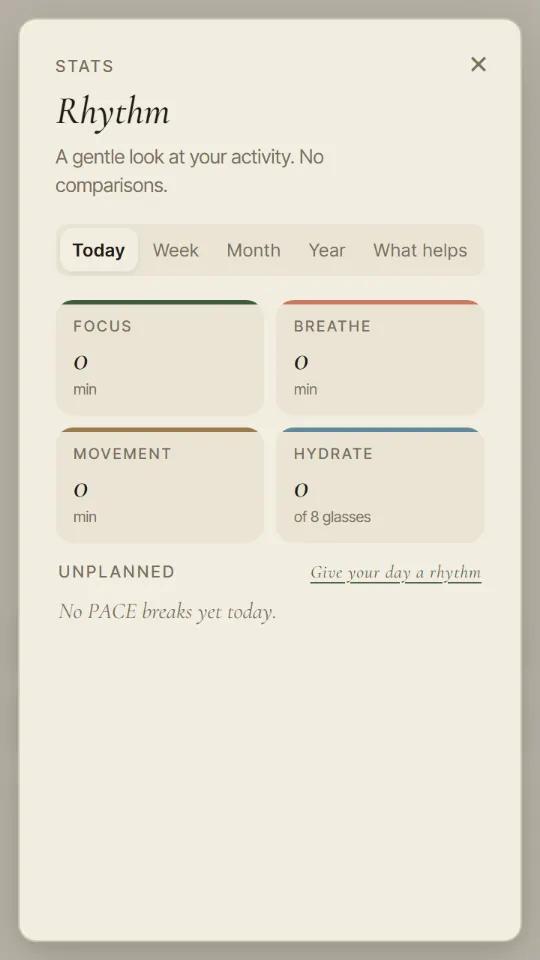
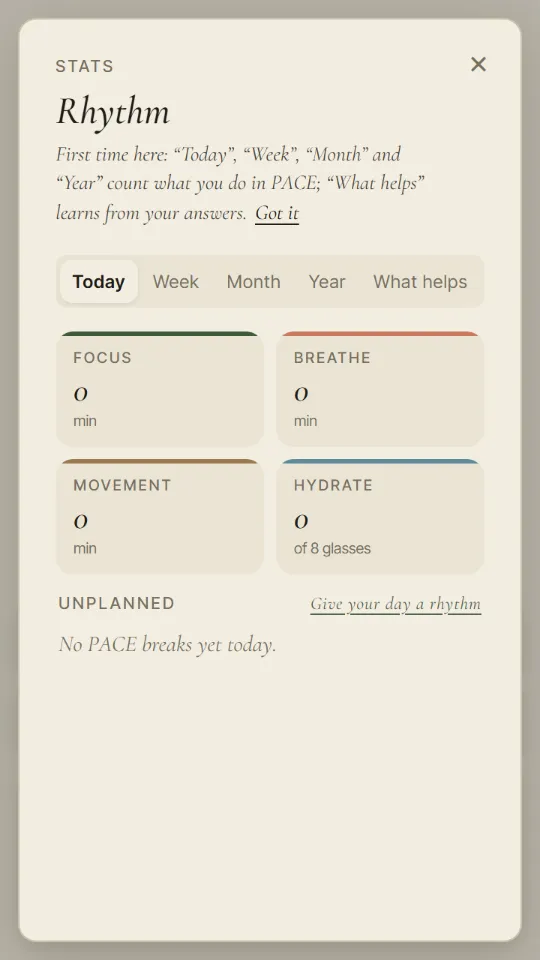
wip(visita-guiada): la B en inglés sí cabe en Estadísticas
El «no cabe» no era de espacio: el guion buscaba la frase inglesa por «Gentle» y la de la app es «A gentle look at your activity…». Con eso, las cuatro líneas de la B caben a 360 y 1280 en los dos idiomas; fotos y medidas rehechas solo para la B en inglés.

Changed region(s): [[0.0889, 0.1562, 0.7704, 0.6875], [0.5333, 0.25, 0.8889, 0.6562]]

diff --git a/docs/proposals/visita-guiada-19nov/pinta.js b/docs/proposals/visita-guiada-19nov/pinta.js
@@ -127,7 +127,7 @@ function pintarLineaB([sitio, lang]) {
   const vis1 = (s) => [...document.querySelectorAll(s)].find((x) => x.getBoundingClientRect().width > 0);
   const hoja = (raiz, re) => [...raiz.querySelectorAll('p, div, span, h2, h3')].find((x) => x.children.length === 0 && re.test(x.textContent.trim()) && x.getBoundingClientRect().width > 0);
   let destino = null;
-  if (sitio === 'stats') destino = hoja(document, /^(Métricas suaves|Gentle|Soft)/);
+  if (sitio === 'stats') destino = hoja(document, /^(Métricas suaves|A gentle look|Gentle|Soft)/);
   if (sitio === 'logros') destino = hoja(document, /^(Sellos de libreta|Field|Stamps)/i);
   if (sitio === 'ajustes') { const pan = vis1('[data-pace-tweaks-panel]'); destino = pan && hoja(pan, /^(Ajustes|Settings)$/); }
   if (sitio === 'dia') { const pan = vis1('[data-pace-ritmo-panel]') || vis1('[data-pace-ritmo-tarjeta]'); destino = pan && hoja(pan, /^(·\s*)?(como cada|like every|Hoy, como cada|Today, like every)/i); }
